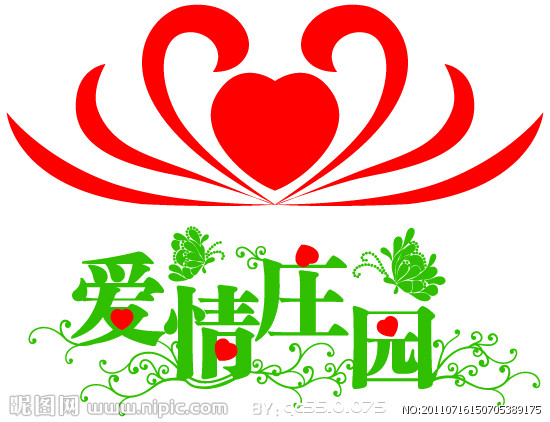
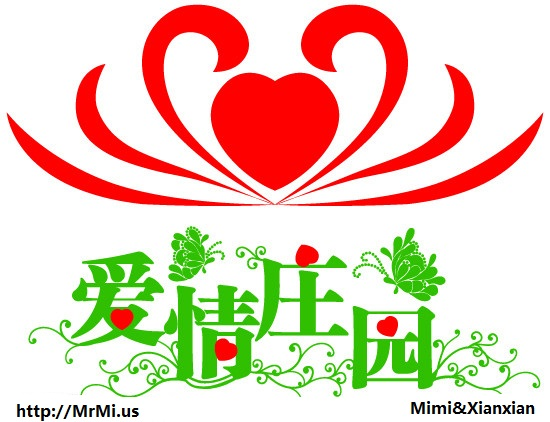
change image

diff --git a/_layouts/default.html b/_layouts/default.html
@@ -22,7 +22,7 @@
             <a href="{{ site.production_url }}">Mi&Xian</a>
           </h2>
 
-          <p>Mimi和Xianxian的爱情博客.</p>
+          <p>Mimi和Xianxian的爱情庄园.</p>
 
           <ul id="navigation" class="clearfix">
             <li class='about'><a href='/about/'>About</a></li>

diff --git a/about.html b/about.html
@@ -8,5 +8,5 @@ page_name: about
 <h1>About Me</h1>
 
 <p>Mimi&Xianxian.</p>
-<p>Mimi和Xianxian的爱情博客.</p>
+<p>Mimi和Xianxian的爱情庄园.</p>
 
